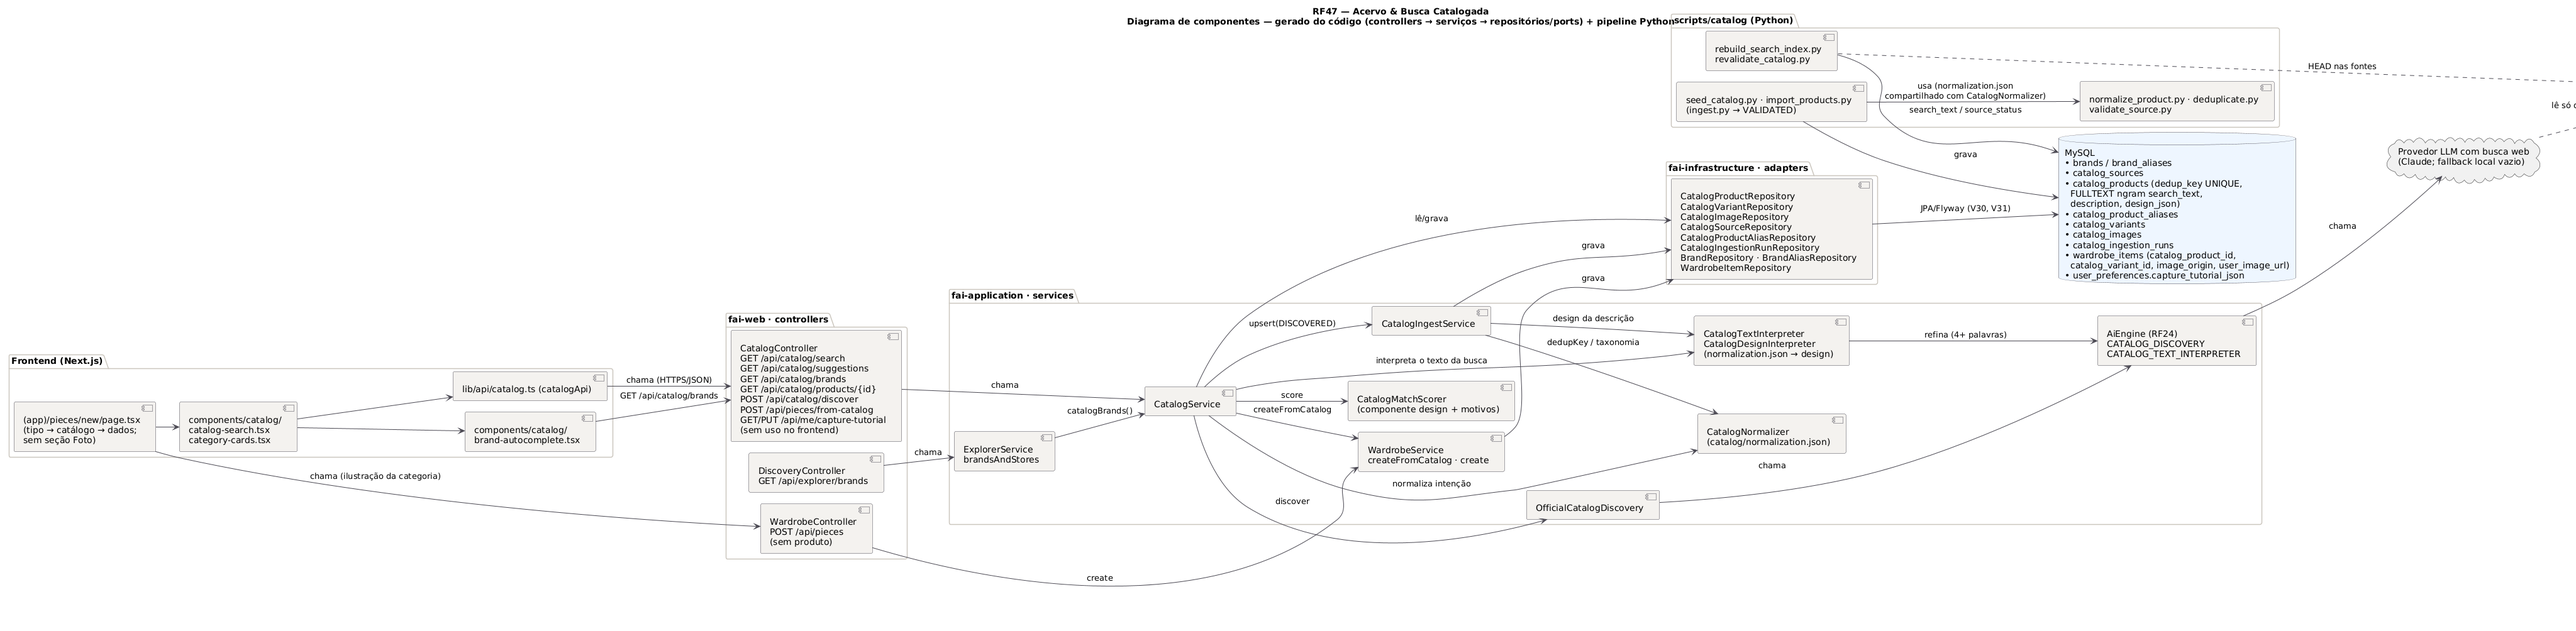
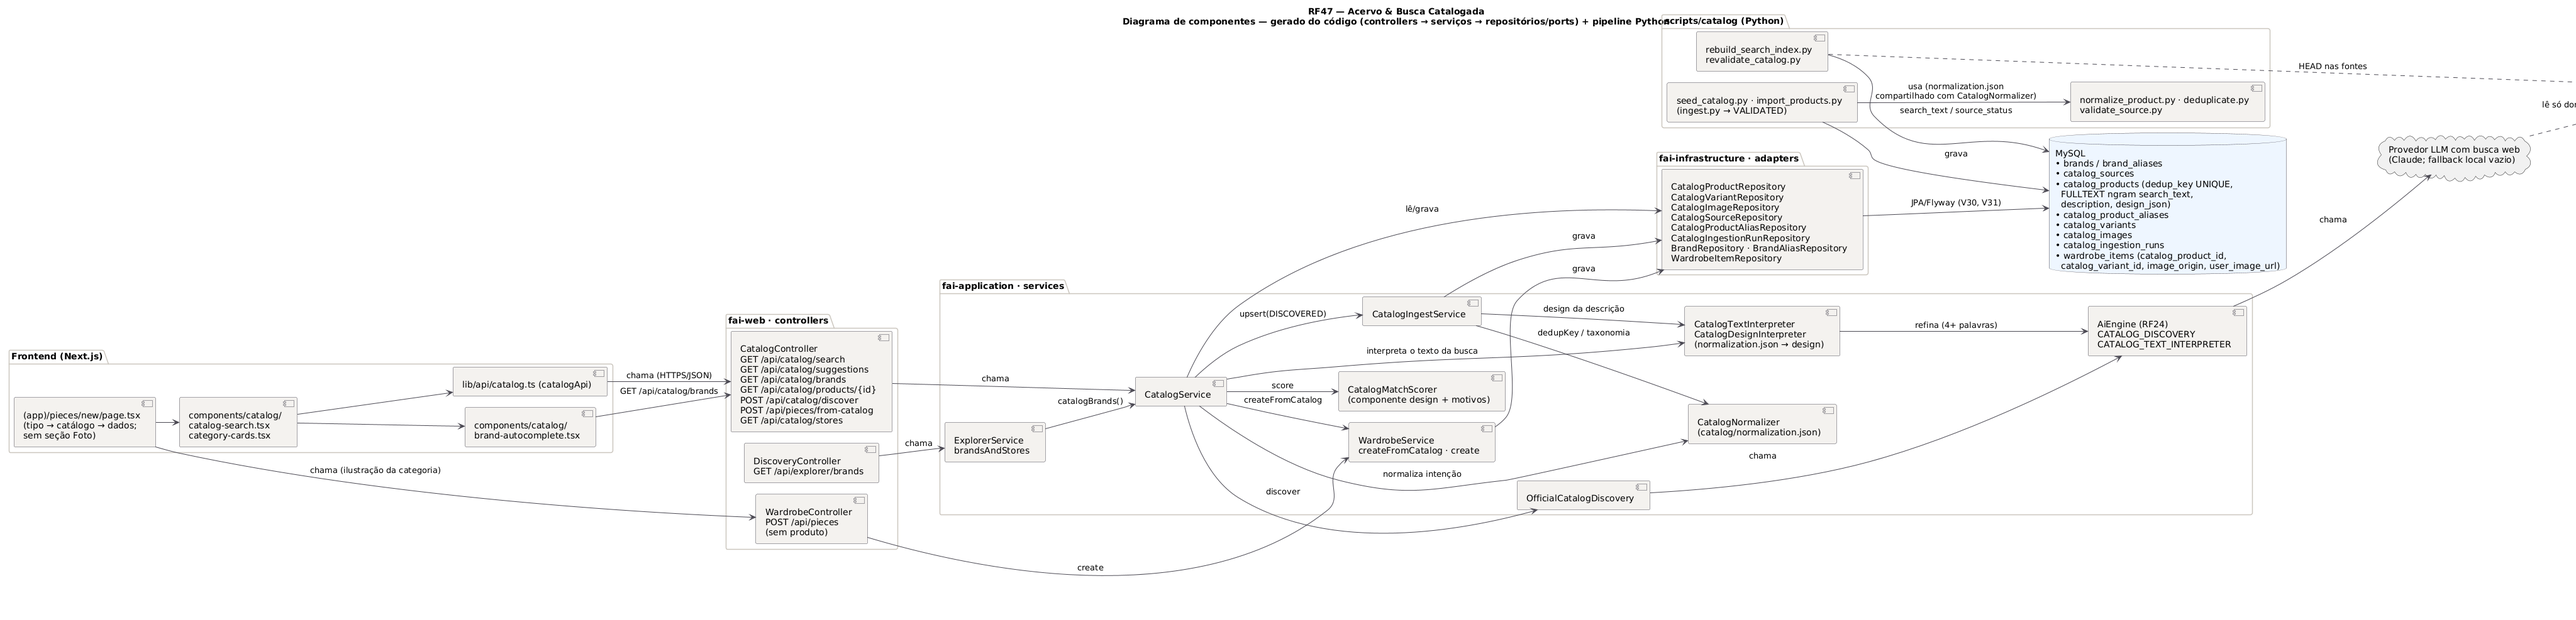
Remove rotas sem uso: /api/me/capture-tutorial e POST /api/pieces/analysis
O criador de peças não tem mais foto (RF47): sai o guia de fotografia (rotas, serviço,
coluna user_preferences.capture_tutorial_json via V32 e mensagem i18n) e a análise de uma
foto. A análise continua em /api/pieces/analysis/batch e /multi; os scripts de e2e e de
avaliação de marca passam a usar o lote. Docs e diagramas do RF47 atualizados.

Claude-Session: https://claude.ai/code/session_01U1kVr2nURjYU3JMzo1fH4M

diff --git a/lib/api/client.test.ts b/lib/api/client.test.ts
@@ -48,7 +48,7 @@ describe("cliente da API (RF2: sessão, erros e renovação do token)", () => {
     const { api } = await fresh();
     fetchMock.mockResolvedValueOnce(json(200, {}));
     const fd = new FormData(); fd.append("file", new Blob(["x"]), "a.jpg");
-    await api.upload("/api/pieces/analysis", fd, "PUT");
+    await api.upload("/api/me/avatar", fd, "PUT");
     const init = fetchMock.mock.calls[0][1];
     expect(init.method).toBe("PUT");
     expect(init.body).toBe(fd);

diff --git a/fai-application/src/main/java/br/com/fashionai/application/catalog/CatalogService.java b/fai-application/src/main/java/br/com/fashionai/application/catalog/CatalogService.java
@@ -14,7 +14,6 @@ import br.com.fashionai.domain.model.CatalogProduct;
 import br.com.fashionai.domain.model.CatalogProductAlias;
 import br.com.fashionai.domain.model.CatalogSource;
 import br.com.fashionai.domain.model.CatalogVariant;
-import br.com.fashionai.domain.model.UserPreferences;
 import br.com.fashionai.domain.model.enums.CatalogIngestionStatus;
 import br.com.fashionai.domain.model.enums.ItemCondition;
 import br.com.fashionai.domain.model.enums.Visibility;
@@ -25,8 +24,6 @@ import br.com.fashionai.domain.repository.CatalogProductAliasRepository;
 import br.com.fashionai.domain.repository.CatalogProductRepository;
 import br.com.fashionai.domain.repository.CatalogSourceRepository;
 import br.com.fashionai.domain.repository.CatalogVariantRepository;
-import br.com.fashionai.domain.repository.UserPreferencesRepository;
-import br.com.fashionai.domain.repository.UserRepository;
 import org.springframework.stereotype.Service;
 import org.springframework.transaction.annotation.Transactional;
 
@@ -69,8 +66,6 @@ public class CatalogService {
     private final CatalogIngestService ingest;
     private final OfficialCatalogDiscovery discovery;
     private final WardrobeService wardrobe;
-    private final UserPreferencesRepository preferences;
-    private final UserRepository users;
     private CatalogTextInterpreter textInterpreter;
     private final CatalogNormalizer norm = CatalogNormalizer.get();
     private final CatalogMatchScorer scorer = new CatalogMatchScorer(norm);
@@ -78,7 +73,7 @@ public class CatalogService {
     public CatalogService(CatalogProductRepository products, CatalogVariantRepository variants, CatalogImageRepository images,
                           CatalogProductAliasRepository productAliases, CatalogSourceRepository sources, BrandRepository brands,
                           BrandAliasRepository brandAliases, CatalogIngestService ingest, OfficialCatalogDiscovery discovery,
-                          WardrobeService wardrobe, UserPreferencesRepository preferences, UserRepository users) {
+                          WardrobeService wardrobe) {
         this.products = products;
         this.variants = variants;
         this.images = images;
@@ -89,8 +84,6 @@ public class CatalogService {
         this.ingest = ingest;
         this.discovery = discovery;
         this.wardrobe = wardrobe;
-        this.preferences = preferences;
-        this.users = users;
     }
 
     /** Leitor das características únicas da peça no texto (com IA, RF24); sem ele, só a leitura local. */
@@ -469,31 +462,6 @@ public class CatalogService {
             }
         }
         return fallback;
-    }
-
-    // ───────────────────────────── tutorial "Como fotografar" (por guia, sincronizado na conta)
-
-    @Transactional(readOnly = true)
-    public Map<String, Object> tutorialPreferences(CurrentUser user) {
-        return preferences.findByUserId(user.id()).map(UserPreferences::getCaptureTutorialJson).map(Json::map)
-                .map(m -> Map.<String, Object>of("captureTutorialPreferences", m)).orElse(Map.of("captureTutorialPreferences", Map.of()));
-    }
-
-    @Transactional
-    public Map<String, Object> setTutorialHidden(CurrentUser user, String guide, boolean hidden) {
-        if (guide == null || !guide.matches("[a-z_]{3,40}")) {
-            throw ApiException.badRequest("GUIA_INVALIDO", Msg.t("catalog.guia_invalido"));
-        }
-        UserPreferences prefs = preferences.findByUserId(user.id()).orElseGet(() -> {
-            UserPreferences np = new UserPreferences();
-            np.setUser(users.findById(user.id()).orElseThrow(() -> ApiException.notFound(Msg.t("common.usuario"))));
-            return np;
-        });
-        Map<String, Object> m = new LinkedHashMap<>(prefs.getCaptureTutorialJson() == null ? Map.of() : Json.map(prefs.getCaptureTutorialJson()));
-        m.put(guide, Map.of("hidden", hidden));
-        prefs.setCaptureTutorialJson(Json.write(m));
-        preferences.save(prefs);
-        return Map.of("captureTutorialPreferences", m);
     }
 
     // ───────────────────────────── Explorador (RF26): marcas do catálogo sem perfil cadastrado

diff --git a/scripts/marcas/testar-deteccao.py b/scripts/marcas/testar-deteccao.py
@@ -1,7 +1,7 @@
 #!/usr/bin/env python3
 """
 RF4 — prova da detecção de marca: envia cada caso de scripts/marcas/gerar-casos.py para a análise real da peça
-(POST /api/pieces/analysis) de um backend local e, quando a marca não sai confirmada, para a nova busca em
+(POST /api/pieces/analysis/batch, uma foto por vez) de um backend local e, quando a marca não sai confirmada, para a nova busca em
 sub-retângulos (POST /api/pieces/analysis/{id}/brand?grid=3, 4, 5). Grava resultados.json e a planilha .xlsx.
 
 Uso: python3 scripts/marcas/testar-deteccao.py <pasta-dos-casos> <token-de-acesso> [saida.xlsx] [http://localhost:8080]
@@ -21,7 +21,7 @@ def call(method, path, fields=None, file=None):
         b = uuid.uuid4().hex; parts = []
         for k, v in (fields or {}).items():
             parts.append(f'--{b}\r\nContent-Disposition: form-data; name="{k}"\r\n\r\n{v}\r\n'.encode())
-        parts.append(f'--{b}\r\nContent-Disposition: form-data; name="file"; filename="{os.path.basename(file)}"\r\nContent-Type: image/jpeg\r\n\r\n'.encode()
+        parts.append(f'--{b}\r\nContent-Disposition: form-data; name="files"; filename="{os.path.basename(file)}"\r\nContent-Type: image/jpeg\r\n\r\n'.encode()
                      + open(file, "rb").read() + b"\r\n")
         parts.append(f"--{b}--\r\n".encode()); data = b"".join(parts)
         headers["Content-Type"] = f"multipart/form-data; boundary={b}"
@@ -29,7 +29,11 @@ def call(method, path, fields=None, file=None):
     t0 = time.time()
     try:
         with urllib.request.urlopen(req, timeout=300) as r:
-            return json.loads(r.read() or b"{}"), time.time() - t0
+            d = json.loads(r.read() or b"{}")
+            if isinstance(d, list):                               # lote de uma foto: o rascunho (ou a recusa) é o 1º item
+                d = d[0] if d else {}
+                d = {**d, **(d.get("rejection") or {})}
+            return d, time.time() - t0
     except urllib.error.HTTPError as e:
         return json.loads(e.read() or b"{}"), time.time() - t0
 
@@ -42,7 +46,7 @@ NO_BRAND = {"semmarca", "nobrand", "sinmarca"}
 cases = json.load(open(os.path.join(DIR, "casos.json")))
 rows = []
 for c in cases:
-    d, dt = call("POST", "/api/pieces/analysis", {"category": c["category"]}, os.path.join(DIR, c["file"]))
+    d, dt = call("POST", "/api/pieces/analysis/batch", {"category": c["category"]}, os.path.join(DIR, c["file"]))
     p = d.get("prefill") or {}; bs = p.get("brandSearch") or {}
     # "Sem marca" é o texto que a análise põe no campo quando não acha marca (o campo nunca fica vazio): não é marca
     found = p.get("brand") or bs.get("brand")
@@ -128,7 +132,7 @@ lines = [
     ("Marca fora do catálogo tratada como 'possível' (pede confirmação)", "OK" if all(r["ok"] for r in rows if r["expected"] and "fora do catálogo" in r["expected"]) else "FALHOU"),
     ("Tempo da análise (mediana / máximo)", f"{t_an[len(t_an) // 2]:.1f} s / {t_an[-1]:.1f} s"),
     ("", ""),
-    ("Como foi testado", "Cada foto passou pela análise real da peça no backend (POST /api/pieces/analysis), com a IA remota desligada: "
+    ("Como foi testado", "Cada foto passou pela análise real da peça no backend (POST /api/pieces/analysis/batch), com a IA remota desligada: "
      "a marca veio do leitor de texto do próprio servidor (OCR PP-OCRv4 em ONNX) casado com o catálogo de marcas. Quando a marca "
      "não saiu confirmada, o teste chamou a nova busca em sub-retângulos (grade 3×3, 4×4, 5×5)."),
     ("Estados", "Confirmada = texto lido é uma marca do catálogo (igual, a uma letra, ou sem a primeira/última letra); "

diff --git a/scripts/logo-eval/run_eval.py b/scripts/logo-eval/run_eval.py
@@ -2,7 +2,7 @@
 Avaliação do RF4 (tipo, cor, logo, marca) com as fotos de dataset.json.
 
 Para cada foto:
-  1. RF4 atual: POST /api/pieces/analysis no backend (o mesmo endpoint do app), guardando categoria, subcategoria,
+  1. RF4 atual: POST /api/pieces/analysis/batch no backend (o mesmo endpoint do app), guardando categoria, subcategoria,
      cor, marca e o logo apontado pelo estúdio;
   2. pipeline proposto (pipeline.py): OCR + símbolo em recortes ampliados, com as probabilidades brutas.
 
@@ -43,13 +43,16 @@ def fetch(item):
 def rf4(path):
     for attempt in range(5):
         with open(path, "rb") as f:
-            r = requests.post(f"{API}/api/pieces/analysis", headers={"Authorization": f"Bearer {TOKEN}"},
-                              files={"file": (os.path.basename(path), f, "image/jpeg")}, timeout=180)
+            r = requests.post(f"{API}/api/pieces/analysis/batch", headers={"Authorization": f"Bearer {TOKEN}"},
+                              files={"files": (os.path.basename(path), f, "image/jpeg")}, timeout=180)
         if r.status_code == 429:
             time.sleep(15 * (attempt + 1)); continue
         if r.status_code >= 400:
             return {"erro": f"{r.status_code} {r.text[:160]}"}
-        d = r.json(); pf = d.get("prefill") or {}; st = d.get("studio") or {}
+        d = (r.json() or [{}])[0]
+        if d.get("rejection"):
+            return {"erro": f"recusada: {d['rejection'].get('code')}"}
+        pf = d.get("prefill") or {}; st = d.get("studio") or {}
         return {"category": pf.get("category"), "subcategory": pf.get("subcategory"), "color": pf.get("color"),
                 "brand": pf.get("brand"), "confidence": pf.get("confidence"), "aiLogo": pf.get("logo"),
                 "studioLogo": st.get("logo"), "backgroundRemoved": d.get("backgroundRemoved"),

diff --git a/scripts/e2e/suite_1.py b/scripts/e2e/suite_1.py
@@ -76,11 +76,13 @@ def run(C):
 
     # ---------------- RF4 peças (usuário e2e)
     step('RF4', 'CA01', 'taxonomia (categorias, cores, ocasiões)', 'GET', '/api/taxonomy', ctx=C)
+    # a rota de uma foto (POST /api/pieces/analysis) saiu com o criador sem foto (RF47): a análise segue pelo lote
+    BATCH = lambda b: {'files': ('foto.jpg', b, 'image/jpeg')}
     step('RF4', 'CA02', 'analisar foto (critérios de aceite, remoção de fundo, subtipo por semelhança, marca, pré-preenchimento)', 'POST',
-         '/api/pieces/analysis', files=JPG(PIECE), fields={'category': 'upper_piece'}, who=U, ctx=C,
-         save=lambda c, b: c.__setitem__('draft_id', b.get('draftId') or b.get('id')))
-    step('RF4', 'CA02', 'foto recusada: pessoa com a roupa cortada pela borda (422 FOTO_RECUSADA)', 'POST', '/api/pieces/analysis',
-         files=JPG(IMG), fields={'category': 'upper_piece'}, who=U, ctx=C, expect=(422,))
+         '/api/pieces/analysis/batch', files=BATCH(PIECE), fields={'category': 'upper_piece'}, who=U, ctx=C,
+         save=lambda c, b: c.__setitem__('draft_id', (b[0] if isinstance(b, list) and b else {}).get('draftId')))
+    step('RF4', 'CA02', 'foto recusada: pessoa com a roupa cortada pela borda (rascunho volta com rejection FOTO_RECUSADA)', 'POST',
+         '/api/pieces/analysis/batch', files=BATCH(IMG), fields={'category': 'upper_piece'}, who=U, ctx=C)
     # RF4 · buscador web de marcas (sem catálogo local): nome + logo filtrado (fundo branco, letras pretas)
     def keep_brand(key):
         def f(c, b):

diff --git a/fai-web/src/main/java/br/com/fashionai/web/controller/CatalogController.java b/fai-web/src/main/java/br/com/fashionai/web/controller/CatalogController.java
@@ -9,7 +9,6 @@ import org.springframework.http.HttpStatus;
 import org.springframework.web.bind.annotation.GetMapping;
 import org.springframework.web.bind.annotation.PathVariable;
 import org.springframework.web.bind.annotation.PostMapping;
-import org.springframework.web.bind.annotation.PutMapping;
 import org.springframework.web.bind.annotation.RequestBody;
 import org.springframework.web.bind.annotation.RequestParam;
 import org.springframework.web.bind.annotation.ResponseStatus;
@@ -73,20 +72,5 @@ public class CatalogController {
     @Operation(summary = "RF47 — Adiciona ao guarda-roupa a peça escolhida no catálogo (dados pessoais à parte)")
     public Views.PieceView fromCatalog(CurrentUser user, @RequestBody CatalogService.AddRequest request) {
         return catalog.addToWardrobe(user, request);
-    }
-
-    @GetMapping("/api/me/capture-tutorial")
-    @Operation(summary = "RF47 — Preferências \"Não mostrar novamente\" do guia de fotografia, por guia")
-    public Map<String, Object> tutorial(CurrentUser user) {
-        return catalog.tutorialPreferences(user);
-    }
-
-    public record TutorialRequest(boolean hidden) {
-    }
-
-    @PutMapping("/api/me/capture-tutorial/{guide}")
-    @Operation(summary = "RF47 — Esconde ou volta a mostrar o guia de fotografia de uma categoria")
-    public Map<String, Object> setTutorial(CurrentUser user, @PathVariable String guide, @RequestBody TutorialRequest request) {
-        return catalog.setTutorialHidden(user, guide, request.hidden());
     }
 }

diff --git a/scripts/logo-eval/build_xlsx.py b/scripts/logo-eval/build_xlsx.py
@@ -172,7 +172,7 @@ for line in [
     "Seleção: todas as 100 fotos das partições de validação e teste com rótulo humano de peça (camiseta, polo, tênis, boné, jaqueta, jeans…) e de logo ou marca.",
     "Rótulos esperados (tipo, cor, marca, classe): feitos à mão, olhando cada foto. 11 fotos foram excluídas (aba Excluídas).",
     "Classe A: marca de moda visível. B: logo de outra entidade (time, empresa, evento). C: sem marca. D: logo que o rotulador não reconheceu.",
-    "RF4 atual: POST /api/pieces/analysis num backend local isolado, com a IA remota desligada. Em produção a análise usa IA de visão; "
+    "RF4 atual: POST /api/pieces/analysis/batch num backend local isolado, com a IA remota desligada. Em produção a análise usa IA de visão; "
     "esse caminho não foi executado aqui para não usar as chaves de produção sem autorização.",
     "Pipeline proposto: scripts/logo-eval/pipeline.py. OCR RapidOCR (Apache-2.0) e CLIP ViT-B/32 em ONNX (MIT), rodando na máquina, em 14 recortes por foto.",
     "Regra: texto lido confirma a marca; símbolo só sugere ('Possível marca: X — confirmar') e precisa vencer com folga.",

diff --git a/fai-web/src/main/java/br/com/fashionai/web/controller/WardrobeController.java b/fai-web/src/main/java/br/com/fashionai/web/controller/WardrobeController.java
@@ -27,15 +27,6 @@ public class WardrobeController {
         this.multiPiece = multiPiece;
     }
 
-    @PostMapping(value = "/api/pieces/analysis", consumes = MediaType.MULTIPART_FORM_DATA_VALUE)
-    @Operation(summary = "RF4.CA02–CA04 — Analisar foto: critérios de aceite, remoção de fundo, flat lay, subtipo por "
-            + "similaridade dentro do tipo escolhido (category), marca nas zonas da peça e pré-preenchimento por IA. "
-            + "Foto fora dos critérios → 422 FOTO_RECUSADA com details.checks")
-    public WardrobeService.Draft analyze(CurrentUser user, @RequestPart("file") MultipartFile file,
-                                         @RequestParam(value = "category", required = false) String category) {
-        return wardrobe.analyze(user, Uploads.image(file), category);
-    }
-
     @PostMapping(value = "/api/pieces/analysis/batch", consumes = MediaType.MULTIPART_FORM_DATA_VALUE)
     @Operation(summary = "RF4.CA11 — Analisar várias fotos de uma vez (até 10)")
     public List<WardrobeService.Draft> analyzeBatch(CurrentUser user, @RequestPart("files") List<MultipartFile> files,

diff --git a/fai-domain/src/main/java/br/com/fashionai/domain/model/UserPreferences.java b/fai-domain/src/main/java/br/com/fashionai/domain/model/UserPreferences.java
@@ -126,8 +126,4 @@ public class UserPreferences extends VersionedAuditableEntity {
     /** Foto com meu manequim — enquadramento do rosto na cabeça 3D: {offsetX, offsetY, scale}. */
     @Column(name = "mannequin_face_json", columnDefinition = "json")
     private String mannequinFaceJson;
-
-    /** RF47 · "Não mostrar novamente" do tutorial de fotografia, por guia: {"upper_piece":{"hidden":true},…}. */
-    @Column(name = "capture_tutorial_json", columnDefinition = "json")
-    private String captureTutorialJson;
 }

diff --git a/docs/catalogo/RF47_ACERVO_BUSCA_CATALOGADA.md b/docs/catalogo/RF47_ACERVO_BUSCA_CATALOGADA.md
@@ -71,10 +71,14 @@ Usuário pesquisa → produto não existe → busca externa (só domínios ofici
 | GET | `/api/catalog/products/{id}` | produto com variantes, imagens (proveniência) e apelidos |
 | POST | `/api/catalog/discover` | busca nas lojas oficiais (RF24/`CATALOG_DISCOVERY`) |
 | POST | `/api/pieces/from-catalog` | cria a peça por referência (dados pessoais no corpo) |
-| GET / PUT | `/api/me/capture-tutorial[/{guide}]` | preferências do antigo guia de fotografia — **sem uso no frontend** desde a retirada da seção Foto |
+| GET | `/api/catalog/stores` | marcas do catálogo com produtos (vitrine do Provador, RF18) |
+
+Removidas em 04/10/2026, sem uso desde que o criador deixou de ter foto: `GET/PUT /api/me/capture-tutorial[/{guide}]` (com a
+coluna `user_preferences.capture_tutorial_json`, apagada na V32) e `POST /api/pieces/analysis` (análise de uma foto; a
+análise continua em `/api/pieces/analysis/batch` e `/multi`).
 
 Controller: `CatalogController`. Serviços: `CatalogService` (busca, sugestões, produto, discover, addToWardrobe,
-tutorial, marcas para o Explorador), `CatalogIngestService` (upsert idempotente), `CatalogNormalizer`,
+marcas para o Explorador e o Provador), `CatalogIngestService` (upsert idempotente), `CatalogNormalizer`,
 `CatalogMatchScorer`, `OfficialCatalogDiscovery`; `WardrobeService.createFromCatalog`;
 `ExplorerService.brandsAndStores`.
 
@@ -125,7 +129,7 @@ o que separa duas peças da mesma marca e do mesmo tipo. Exemplo (Calvin Klein, 
 | `catalog_ingestion_runs` | relatório de cada execução de ingestão |
 | `catalog_products` (+2, V31) | `description`, `design_json` (características únicas da peça) |
 | `wardrobe_items` (+4 colunas) | `catalog_product_id`, `catalog_variant_id`, `image_origin`, `user_image_url` |
-| `user_preferences` (+1) | `capture_tutorial_json` |
+| `user_preferences` (V32) | `capture_tutorial_json` removida (o guia de fotografia saiu) |
 
 Enums: `CatalogSourceType` (OFFICIAL_BRAND, OFFICIAL_STORE, AUTHORIZED_RETAILER, PARTNER_API, MANUAL_ADMIN),
 `CatalogSourceStatus` (ACTIVE, UNAVAILABLE, SOURCE_REMOVED, NEEDS_REVALIDATION), `CatalogIngestionStatus`

diff --git a/docs/visao-computacional/RF04_ADAPTIVE_GARMENT_CAPTURE.md b/docs/visao-computacional/RF04_ADAPTIVE_GARMENT_CAPTURE.md
@@ -1,5 +1,9 @@
 # RF04 · Adaptive Garment Capture + Garment Computer Vision
 
+> **04/10/2026:** `POST /api/pieces/analysis` (uma foto) foi removida junto com o envio de foto do criador de peças
+> (RF47). A análise segue por `/api/pieces/analysis/batch` e `/api/pieces/analysis/multi`; as menções abaixo à rota
+> de uma foto descrevem o desenho original.
+
 Relatório técnico e plano de execução da refatoração do pipeline de imagens do cadastro de peças (RF04).
 Data: 03/10/2026 · Branch: `claude/adaptive-garment-capture`.
 
